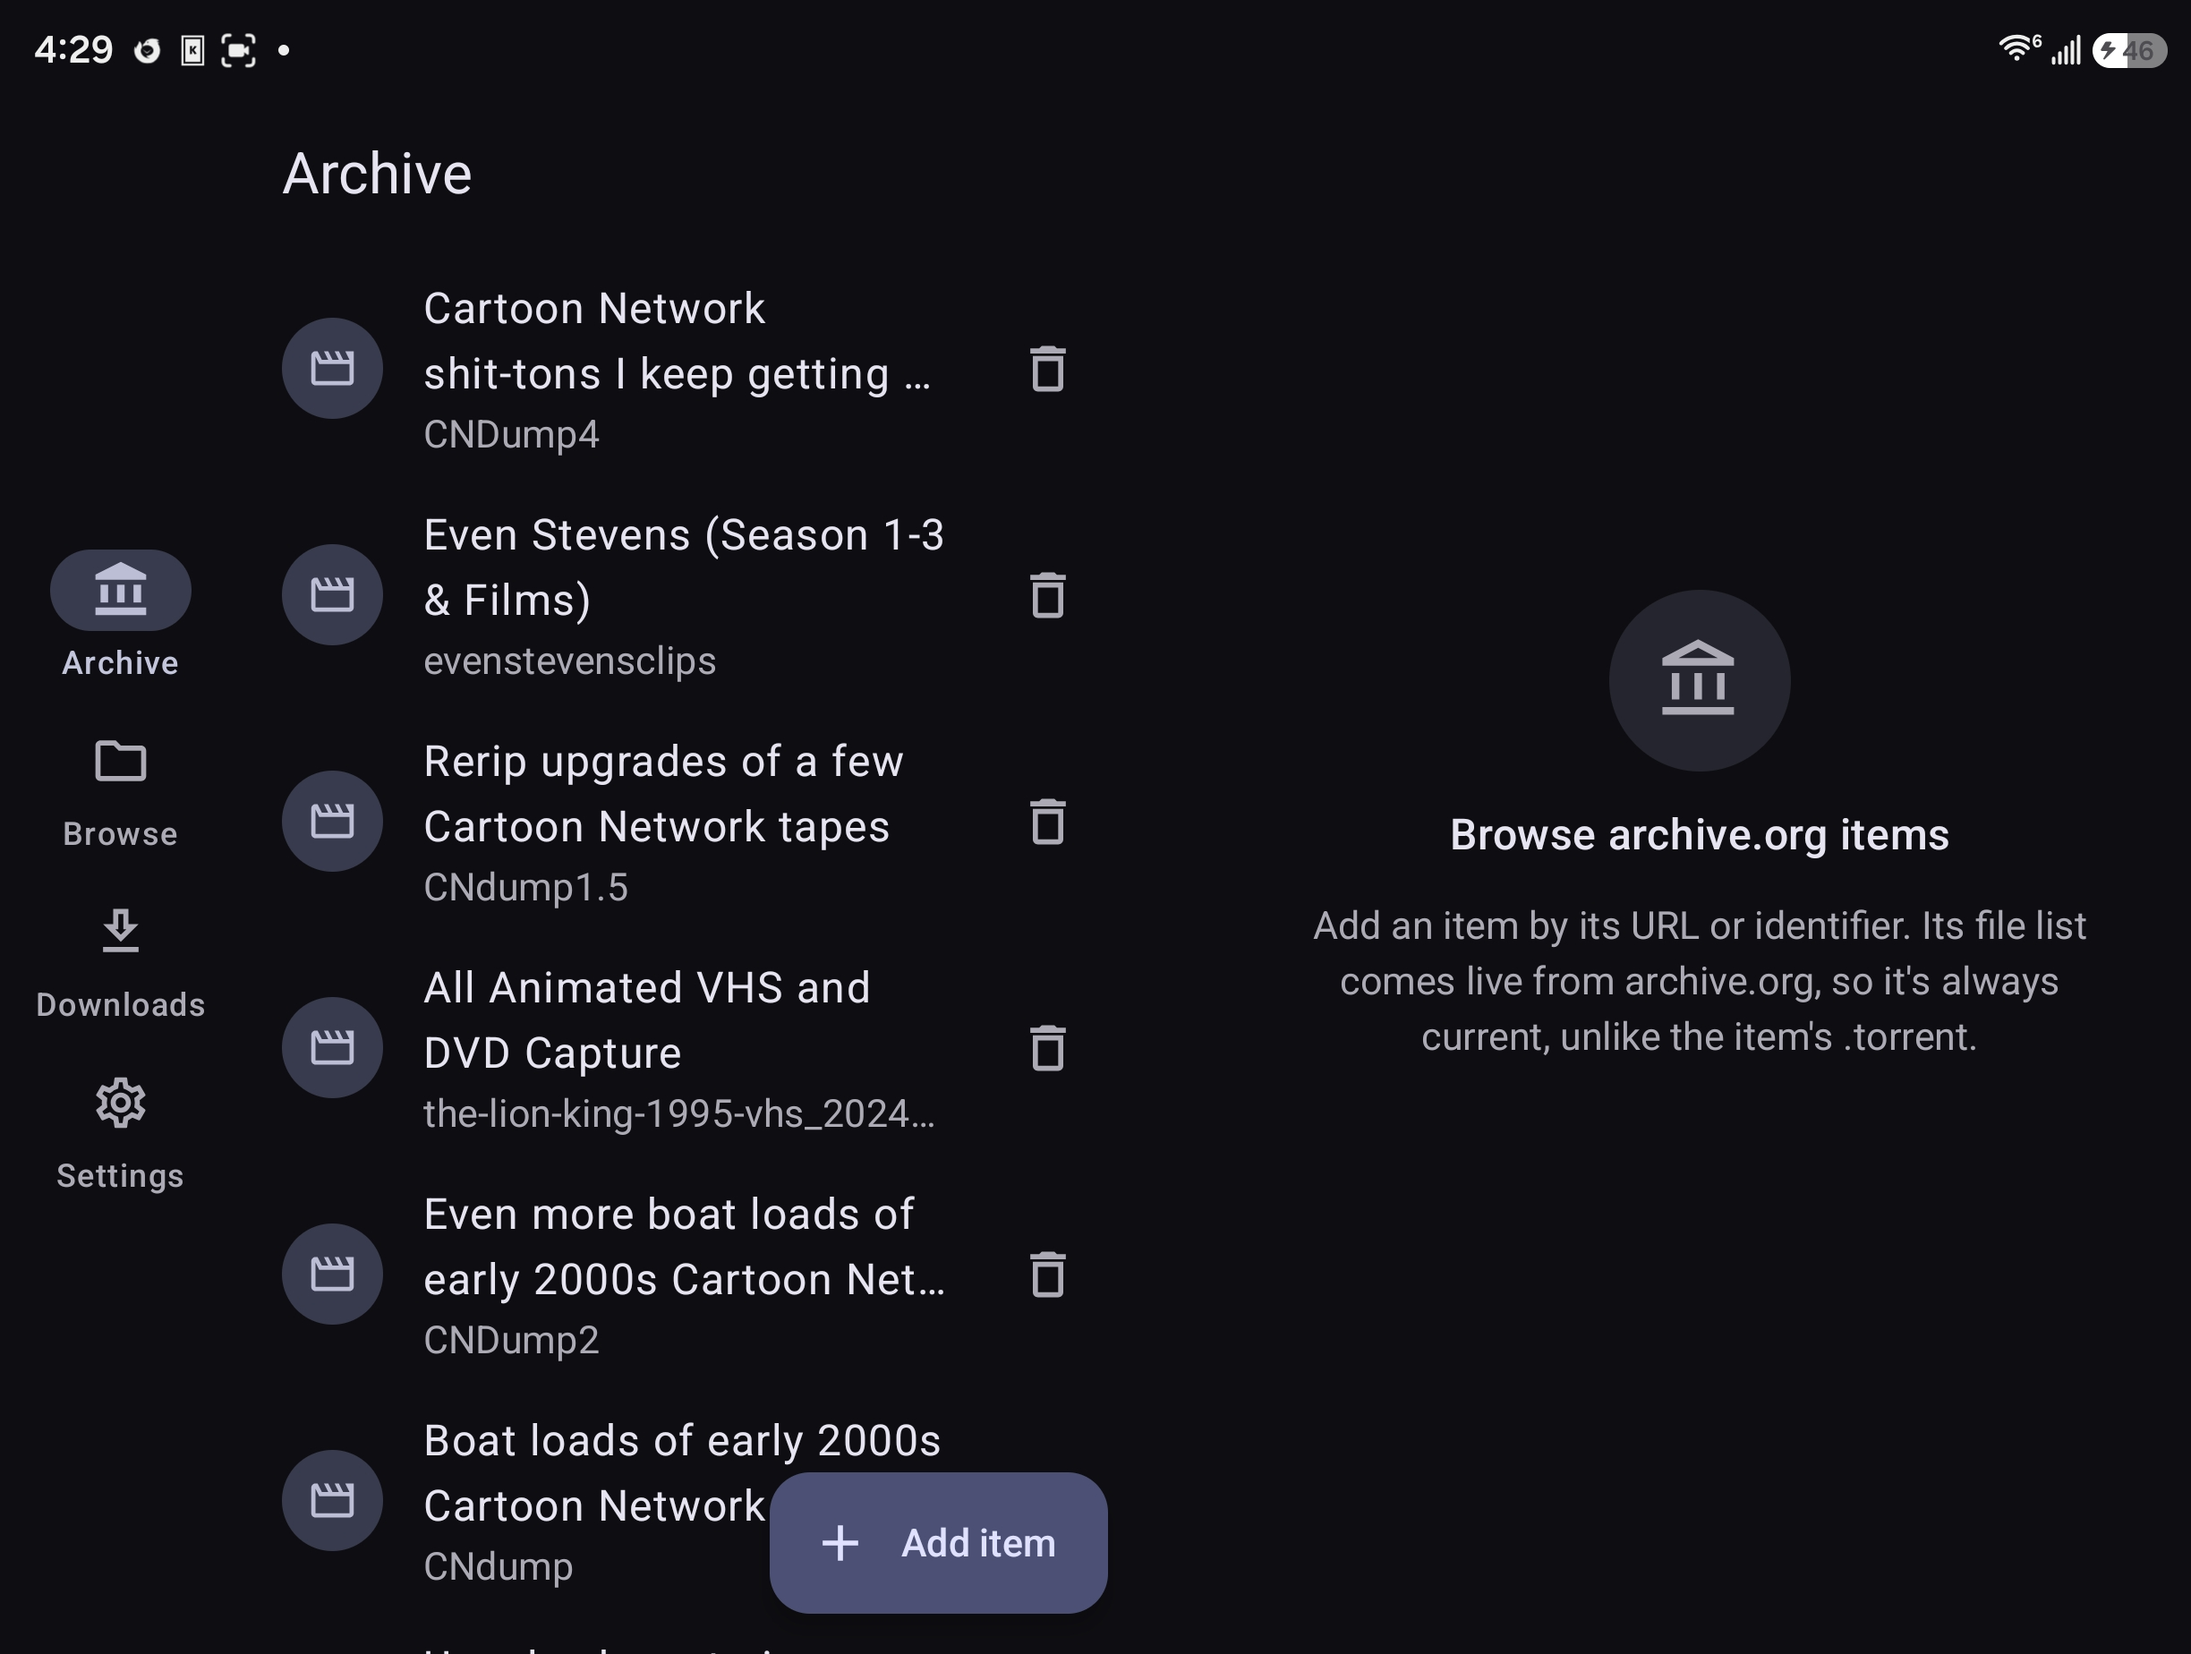
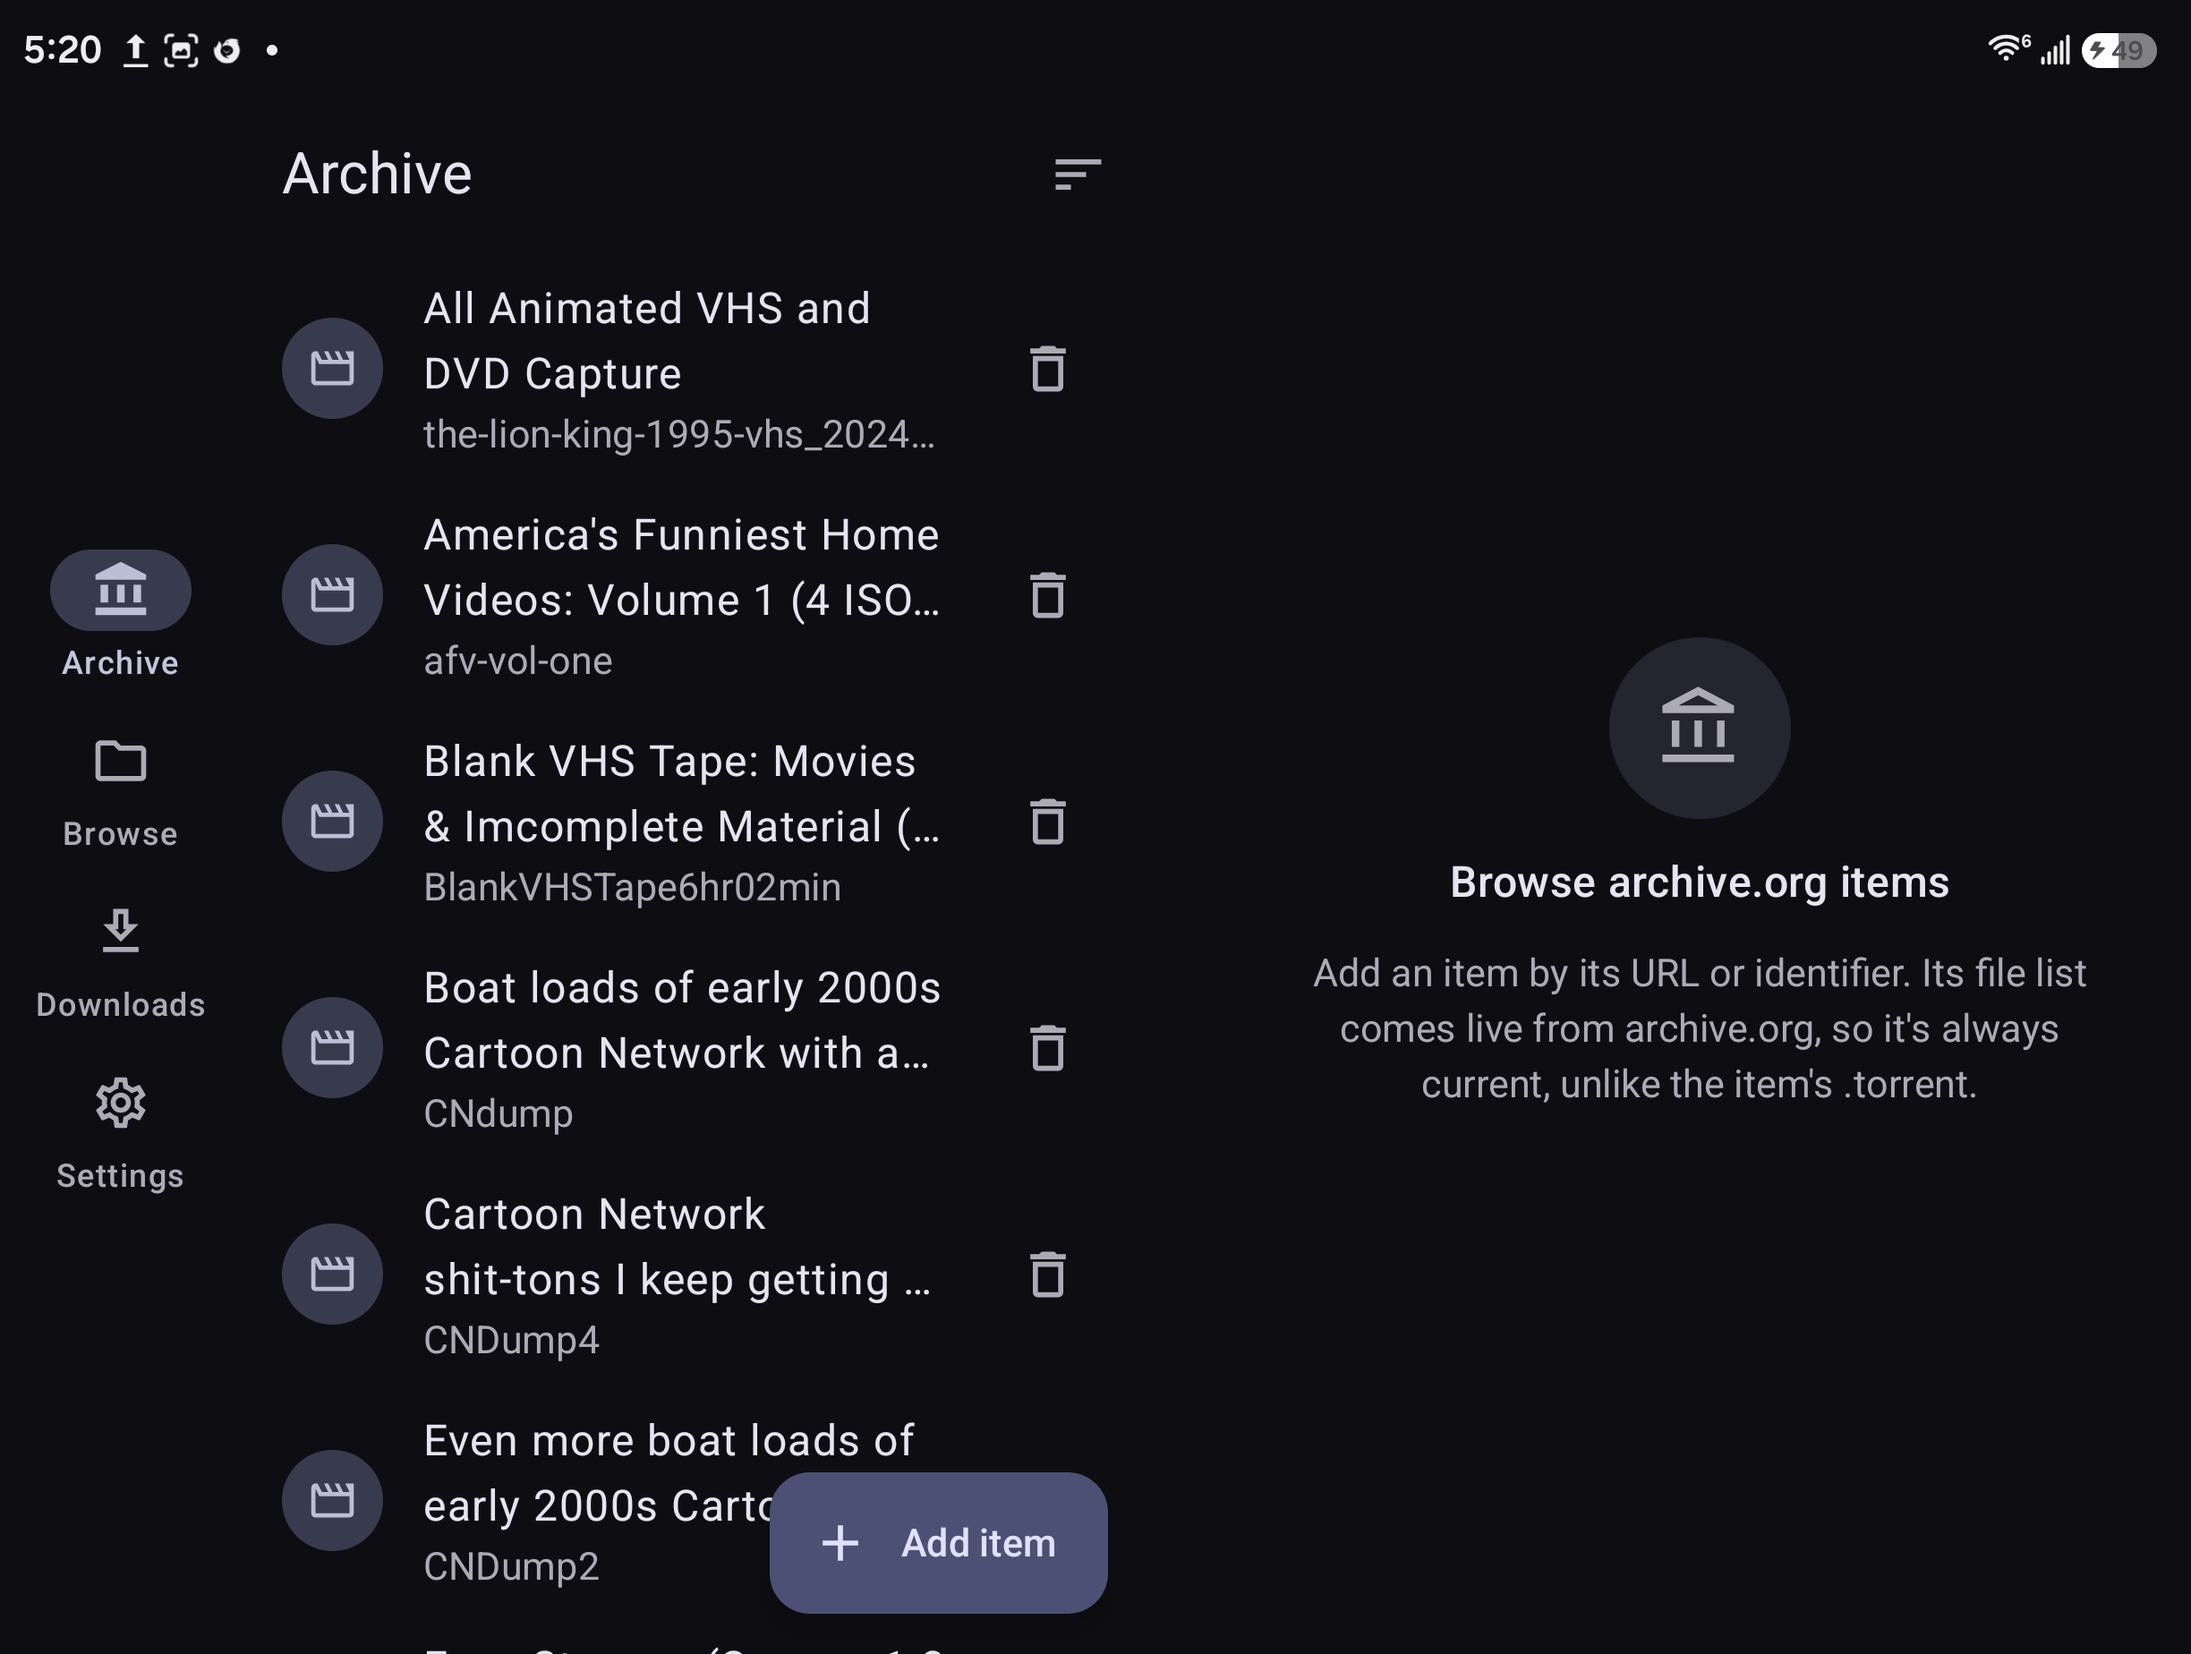
Archive sort, solid status bar, new screenshot
- Archive: sort saved items by recently opened, title or identifier
  (remembered). Sorting happens in composition so the list can reliably
  jump back to the top on every sort change.
- Archive saved-items top bar tints on scroll like the other lists.
- One solid full-width strip behind the status bar: nothing scrolls under
  it and scroll-tinted top bars stop below it. The navigation bar stays
  edge-to-edge.
- README screenshot updated.

diff --git a/app/src/main/java/dev/parker/rewind/ui/ArchiveScreen.kt b/app/src/main/java/dev/parker/rewind/ui/ArchiveScreen.kt
@@ -21,6 +21,7 @@ import androidx.compose.foundation.layout.size
 import androidx.compose.foundation.layout.widthIn
 import androidx.compose.foundation.lazy.LazyColumn
 import androidx.compose.foundation.lazy.items
+import androidx.compose.foundation.lazy.rememberLazyListState
 import androidx.compose.foundation.rememberScrollState
 import androidx.compose.foundation.verticalScroll
 import androidx.compose.material.icons.Icons
@@ -28,6 +29,7 @@ import androidx.compose.material.icons.automirrored.filled.ArrowBack
 import androidx.compose.material.icons.automirrored.filled.KeyboardArrowRight
 import androidx.compose.material.icons.automirrored.outlined.MenuBook
 import androidx.compose.material.icons.automirrored.outlined.OpenInNew
+import androidx.compose.material.icons.automirrored.outlined.Sort
 import androidx.compose.material.icons.outlined.AccountBalance
 import androidx.compose.material.icons.outlined.Add
 import androidx.compose.material.icons.outlined.Audiotrack
@@ -54,6 +56,8 @@ import androidx.compose.material3.ButtonDefaults
 import androidx.compose.material3.Card
 import androidx.compose.material3.CardDefaults
 import androidx.compose.material3.CircularProgressIndicator
+import androidx.compose.material3.DropdownMenu
+import androidx.compose.material3.DropdownMenuItem
 import androidx.compose.material3.ExperimentalMaterial3Api
 import androidx.compose.material3.ExtendedFloatingActionButton
 import androidx.compose.material3.FilledTonalButton
@@ -103,6 +107,7 @@ import dev.parker.rewind.archive.ArchiveViewModel
 import dev.parker.rewind.archive.FileSource
 import dev.parker.rewind.archive.OpenItem
 import dev.parker.rewind.archive.SavedItem
+import dev.parker.rewind.archive.SavedSort
 import dev.parker.rewind.engine.DownloadJob
 import dev.parker.rewind.engine.Downloads
 import dev.parker.rewind.torrent.TorrentNode
@@ -183,13 +188,28 @@ fun ArchiveScreen(vm: ArchiveViewModel, onStream: (DownloadJob) -> Unit, onStrea
 @OptIn(ExperimentalMaterial3Api::class)
 @Composable
 private fun SavedItemsList(vm: ArchiveViewModel) {
-    val saved by vm.saved.collectAsStateWithLifecycle()
+    val items by vm.saved.collectAsStateWithLifecycle()
+    val sort by vm.sort.collectAsStateWithLifecycle()
+    val saved = remember(items, sort) { vm.sorted(items, sort) }
+    val listState = rememberLazyListState()
+    // Rows are keyed, so a re-sort would otherwise keep the old first-visible item in view and leave
+    // you partway down. Jump to the top on every sort change (but not on first composition).
+    var sortedFor by remember { mutableStateOf(sort) }
+    LaunchedEffect(sort) {
+        if (sort != sortedFor) {
+            listState.scrollToItem(0)
+            sortedFor = sort
+        }
+    }
     val loading by vm.loading.collectAsStateWithLifecycle()
     var adding by remember { mutableStateOf(false) }
     var confirmRemove by remember { mutableStateOf<SavedItem?>(null) }
 
+    // Same scroll-tinted top bar as the other lists.
+    val scrollBehavior = TopAppBarDefaults.pinnedScrollBehavior(rememberTopAppBarState())
     Scaffold(
-        topBar = { TopAppBar(title = { Text("Archive") }) },
+        modifier = Modifier.nestedScroll(scrollBehavior.nestedScrollConnection),
+        topBar = { TopAppBar(title = { Text("Archive") }, actions = { SortMenu(vm) }, scrollBehavior = scrollBehavior) },
         floatingActionButton = {
             ExtendedFloatingActionButton(
                 onClick = { adding = true },
@@ -208,6 +228,7 @@ private fun SavedItemsList(vm: ArchiveViewModel) {
             )
         } else {
             LazyColumn(
+                state = listState,
                 contentPadding = PaddingValues(top = padding.calculateTopPadding(), bottom = 96.dp),
                 modifier = Modifier.fillMaxSize(),
             ) {
@@ -239,6 +260,24 @@ private fun SavedItemsList(vm: ArchiveViewModel) {
             confirmButton = { TextButton(onClick = { vm.remove(item.identifier); confirmRemove = null }) { Text("Remove") } },
             dismissButton = { TextButton(onClick = { confirmRemove = null }) { Text("Cancel") } },
         )
+    }
+}
+
+@Composable
+private fun SortMenu(vm: ArchiveViewModel) {
+    val sort by vm.sort.collectAsStateWithLifecycle()
+    var open by remember { mutableStateOf(false) }
+    IconButton(onClick = { open = true }) { Icon(Icons.AutoMirrored.Outlined.Sort, contentDescription = "Sort") }
+    DropdownMenu(expanded = open, onDismissRequest = { open = false }) {
+        SavedSort.entries.forEach { option ->
+            DropdownMenuItem(
+                text = { Text(option.label) },
+                onClick = { vm.setSort(option); open = false },
+                trailingIcon = if (option == sort) {
+                    { Icon(Icons.Outlined.Check, contentDescription = "Selected") }
+                } else null,
+            )
+        }
     }
 }
 

diff --git a/app/src/main/java/dev/parker/rewind/archive/ArchiveViewModel.kt b/app/src/main/java/dev/parker/rewind/archive/ArchiveViewModel.kt
@@ -25,6 +25,12 @@ import java.io.File
 
 data class SavedItem(val identifier: String, val title: String, val mediatype: String?)
 
+enum class SavedSort(val label: String) {
+    Recent("Recently opened"),
+    Title("Title"),
+    Identifier("Identifier"),
+}
+
 /** An open item and the folder inside it being shown. */
 data class OpenItem(val item: ArchiveItem, val path: List<String> = emptyList())
 
@@ -32,8 +38,29 @@ class ArchiveViewModel(app: Application) : AndroidViewModel(app) {
     private val prefs = app.getSharedPreferences("archive", Context.MODE_PRIVATE)
     val settings = AppSettings.get(app)
 
+    /** Stored most-recently-opened first; that order is the "Recent" sort. Sort with [sorted]. */
     private val _saved = MutableStateFlow(loadSaved())
     val saved: StateFlow<List<SavedItem>> = _saved.asStateFlow()
+
+    private val _sort = MutableStateFlow(
+        SavedSort.entries.firstOrNull { it.name == prefs.getString(KEY_SORT, null) } ?: SavedSort.Recent
+    )
+    val sort: StateFlow<SavedSort> = _sort.asStateFlow()
+
+    /**
+     * Sorting is done by the caller in composition rather than in a flow, so a new sort and the
+     * reordered list land in the same frame (the list can then reliably jump to the top).
+     */
+    fun sorted(items: List<SavedItem>, sort: SavedSort): List<SavedItem> = when (sort) {
+        SavedSort.Recent -> items
+        SavedSort.Title -> items.sortedWith(compareBy(String.CASE_INSENSITIVE_ORDER, SavedItem::title).thenBy { it.identifier })
+        SavedSort.Identifier -> items.sortedWith(compareBy(String.CASE_INSENSITIVE_ORDER, SavedItem::identifier))
+    }
+
+    fun setSort(sort: SavedSort) {
+        prefs.edit { putString(KEY_SORT, sort.name) }
+        _sort.value = sort
+    }
 
     private val _open = MutableStateFlow<OpenItem?>(null)
     val open: StateFlow<OpenItem?> = _open.asStateFlow()
@@ -190,6 +217,7 @@ class ArchiveViewModel(app: Application) : AndroidViewModel(app) {
 
     companion object {
         private const val KEY_ITEMS = "items"
+        private const val KEY_SORT = "saved_sort"
         private const val KEY_SHOW = "show_sources"
     }
 }

diff --git a/app/src/main/java/dev/parker/rewind/ui/Theme.kt b/app/src/main/java/dev/parker/rewind/ui/Theme.kt
@@ -7,7 +7,18 @@ import androidx.compose.material3.darkColorScheme
 import androidx.compose.material3.dynamicDarkColorScheme
 import androidx.compose.material3.dynamicLightColorScheme
 import androidx.compose.material3.lightColorScheme
+import androidx.compose.foundation.background
+import androidx.compose.foundation.layout.Box
+import androidx.compose.foundation.layout.Column
+import androidx.compose.foundation.layout.Spacer
+import androidx.compose.foundation.layout.WindowInsets
+import androidx.compose.foundation.layout.consumeWindowInsets
+import androidx.compose.foundation.layout.fillMaxSize
+import androidx.compose.foundation.layout.fillMaxWidth
+import androidx.compose.foundation.layout.statusBars
+import androidx.compose.foundation.layout.windowInsetsTopHeight
 import androidx.compose.runtime.Composable
+import androidx.compose.ui.Modifier
 import androidx.compose.ui.graphics.Color
 import androidx.compose.ui.platform.LocalContext
 
@@ -37,6 +48,27 @@ private val Dark = darkColorScheme(
     tertiaryContainer = Color(0xFF334863),
     onTertiaryContainer = Color(0xFFD3E4FF),
 )
+
+/**
+ * One solid, full-width strip behind the status bar. Nothing scrolls under it and scroll-tinted top
+ * bars stop below it, so the status bar never shows content or a half-tinted colour. The navigation
+ * bar is left edge-to-edge on purpose.
+ */
+@Composable
+fun SolidStatusBar(content: @Composable () -> Unit) {
+    Column(Modifier.fillMaxSize().background(MaterialTheme.colorScheme.surface)) {
+        Spacer(
+            Modifier
+                .fillMaxWidth()
+                .windowInsetsTopHeight(WindowInsets.statusBars)
+                .background(MaterialTheme.colorScheme.surface)
+        )
+        // Descendants (top bars, Scaffolds, detail panes) see the status bar inset as already handled.
+        Box(Modifier.weight(1f).fillMaxWidth().consumeWindowInsets(WindowInsets.statusBars)) {
+            content()
+        }
+    }
+}
 
 @Composable
 fun RewindTheme(content: @Composable () -> Unit) {

diff --git a/app/src/main/java/dev/parker/rewind/MainActivity.kt b/app/src/main/java/dev/parker/rewind/MainActivity.kt
@@ -9,6 +9,7 @@ import androidx.activity.viewModels
 import dev.parker.rewind.archive.ArchiveViewModel
 import dev.parker.rewind.ui.App
 import dev.parker.rewind.ui.RewindTheme
+import dev.parker.rewind.ui.SolidStatusBar
 
 class MainActivity : ComponentActivity() {
     private val vm: MainViewModel by viewModels()
@@ -19,7 +20,7 @@ class MainActivity : ComponentActivity() {
         enableEdgeToEdge()
         if (savedInstanceState == null) handleIntent(intent)
         setContent {
-            RewindTheme { App(vm, archiveVm) }
+            RewindTheme { SolidStatusBar { App(vm, archiveVm) } }
         }
     }
 
